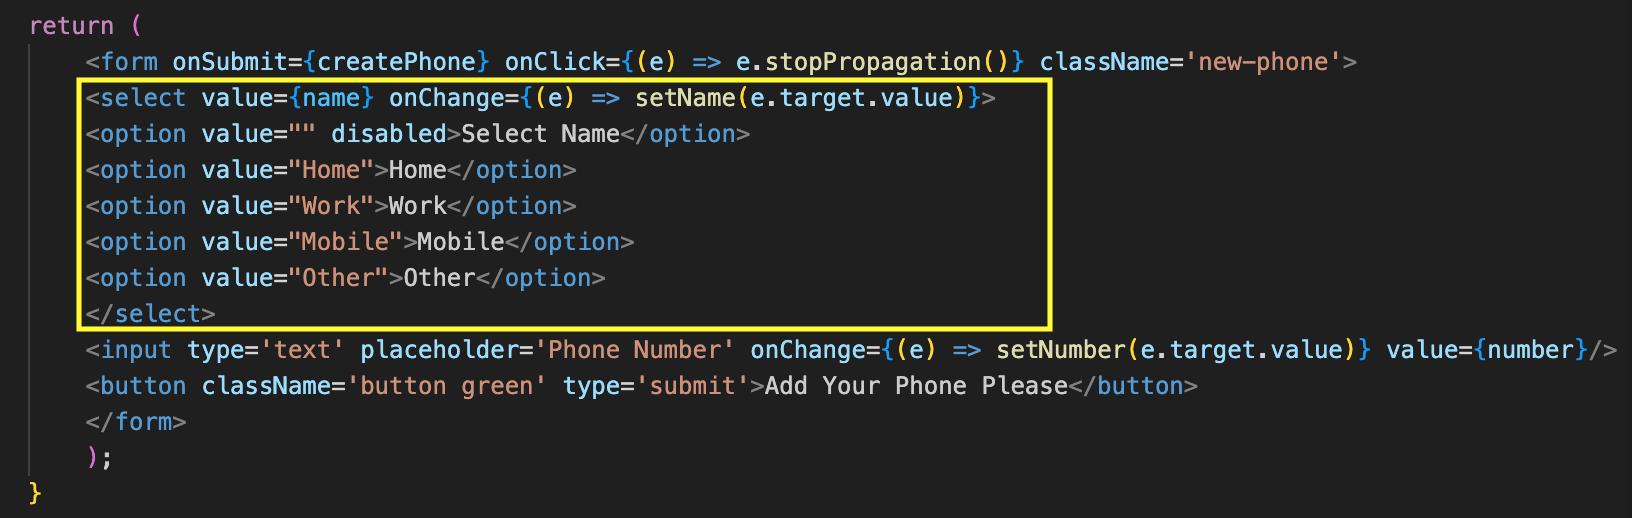
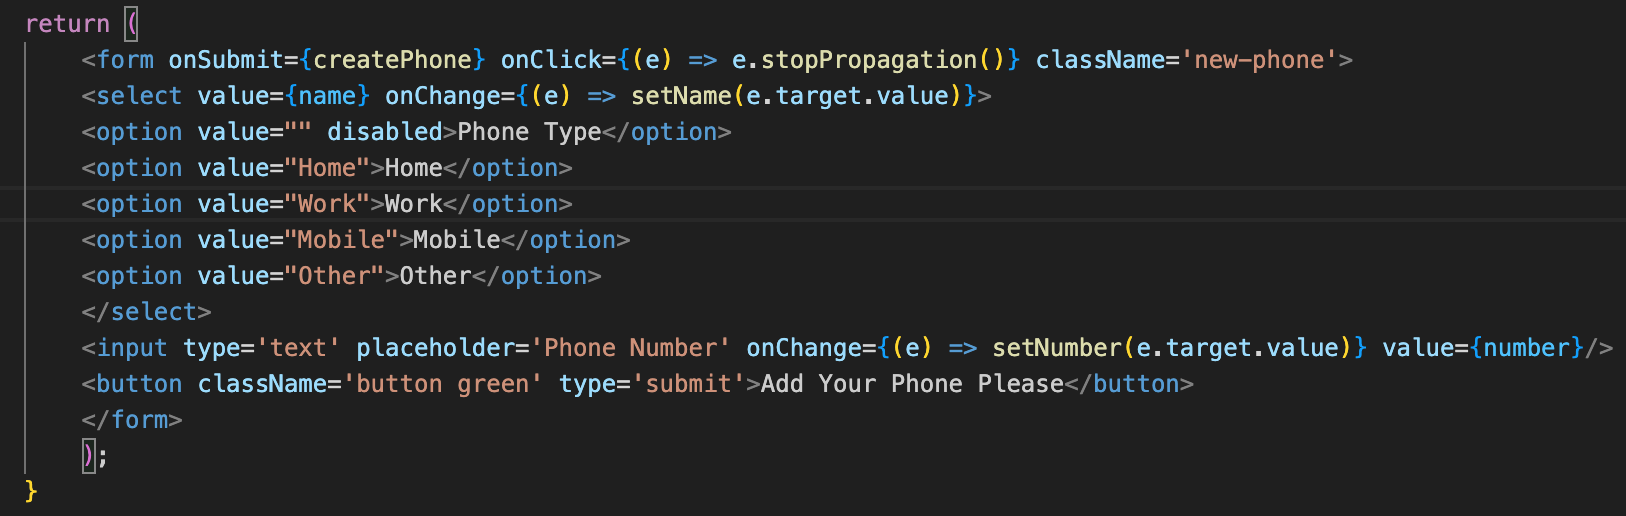
update on 28-08-24

Changed region(s): [[0.0, 0.031, 1.0, 0.8992], [0.0, 0.9302, 0.0308, 0.9612]]

diff --git a/frontend/src/components/NewPhone.js b/frontend/src/components/NewPhone.js
@@ -29,13 +29,19 @@ function NewPhone(props) {
         setName('');
     }
 
-return (
-    <form onSubmit={createPhone} onClick={(e) => e.stopPropagation()} className='new-phone'>
-        <input type='text' placeholder='Name' onChange={(e) => setName(e.target.value)} value={name}/>
-        <input type='text' placeholder='Phone Number' onChange={(e) => setNumber(e.target.value)} value={number}/>
-        <button className='button green' type='submit'>Add Your Phone Please</button>
-    </form>
-);
-}
+    return ( 
+        <form onSubmit={createPhone} onClick={(e) => e.stopPropagation()} className='new-phone'> 
+        <select value={name} onChange={(e) => setName(e.target.value)}> 
+        <option value="" disabled>Phone Type</option> 
+        <option value="Home">Home</option> 
+        <option value="Work">Work</option> 
+        <option value="Mobile">Mobile</option> 
+        <option value="Other">Other</option> 
+        </select> 
+        <input type='text' placeholder='Phone Number' onChange={(e) => setNumber(e.target.value)} value={number}/> 
+        <button className='button green' type='submit'>Add Your Phone Please</button> 
+        </form> 
+        ); 
+    } 
 
 export default NewPhone;

diff --git a/frontend/src/components/NewContact.js b/frontend/src/components/NewContact.js
@@ -25,20 +25,14 @@ function NewContact(props) {
 
         setName('');
     }
+	
+    return (
+        <form className='new-contact' onSubmit={createContact}>
+            <input type='text' placeholder='Name' onChange={(e) => setName(e.target.value)} value={name}/>
+            <button className='button green' type='submit'>Create Contact</button>
+        </form>
+	);
+}
 
-    return ( 
-        <form onSubmit={createPhone} onClick={(e) => e.stopPropagation()} className='new-phone'> 
-        <select value={name} onChange={(e) => setName(e.target.value)}> 
-        <option value="" disabled>Select Name</option> 
-        <option value="Home">Home</option> 
-        <option value="Work">Work</option> 
-        <option value="Mobile">Mobile</option> 
-        <option value="Other">Other</option> 
-        </select> 
-        <input type='text' placeholder='Phone Number' onChange={(e) => setNumber(e.target.value)} value={number}/> 
-        <button className='button green' type='submit'>Add Your Phone Please</button> 
-        </form> 
-        ); 
-    } 
 
     export default NewContact;

diff --git a/README.md b/README.md
@@ -7,13 +7,54 @@ I choose Option A
 TASK 1 – USER INTERFACE CHANGES 
 
 1. Change Button Label in Contact Component
-In "/frontend/src/components/Contact.js", change the text in the yellow rectangle from "Delete" to "Delete Contact"
-
+In "/frontend/src/components/Contact.js", change the text in the yellow rectangle from "Delete" to "Delete Contact".
+<img title="1" alt="1" src= 1.png width="600">
 2. Change Button Label in Phone Component
-In "/frontend/src/components/NewPhone.js", change the text in the yellow rectangle from "Add" to "Add Your Phone Please"
-
+In "/frontend/src/components/NewPhone.js", change the text in the yellow rectangle from "Add" to "Add Your Phone Please".
+<img title="2" alt="2" src= 2.png width="600">
 3. Change Placeholder Text to Drop-Down Menu
-In "/frontend/src/components/NewContact.js", change the syntax in the yellow rectangle from the first picture to the second picture
-
-4. Change Table Label in <tr> Element
+In "/frontend/src/components/NewPhone.js", change the syntax in the yellow rectangle from the first picture to the second picture.
+<img title="3" alt="3" src= 3.png width="600">
 <img title="4" alt="4" src= 4.png width="600">
+4. Change Table Label in <tr> Element
+In "/frontend/src/components/PhoneList.js, change the text in the yellow rectangle from "Name" to "Phone Type.
+<img title="5" alt="5" src= 5.png width="600">
+
+Task 2 - API Command Demonstrations
+
+Show Contact:
+http GET localhost/api/contacts
+<img title="6" alt="6" src= 6.png width="600">
+
+Add Contact:
+http POST localhost/api/contacts "name"="Olivia"
+<img title="7" alt="7" src= 7.png width="600">
+
+Delete Contact:
+http DELETE localhost/api/contacts/7
+<img title="8" alt="8" src= 8.png width="600">
+
+Update Contact:
+http PUT localhost/api/contacts/4 "name"="Grace"
+<img title="9" alt="9" src= 9.png width="600">
+        
+Show Phone:
+All phones of "contactId":6
+http GET localhost/api/contacts/6/phones
+<img title="10" alt="10" src= 10.png width="600">
+
+phone of "contactId":6, "Id":3
+http GET localhost/api/contacts/6/phones/3
+<img title="11" alt="11" src= 11.png width="600">
+
+Add Phone:
+http POST localhost/api/contacts/6/phones name="Home" number="9041250000"
+<img title="12" alt="12" src= 12.png width="600">
+
+Delete Phone:
+http DELETE localhost/api/contacts/6/phones/4
+<img title="13" alt="13" src= 13.png width="600">
+        
+Update Phone:
+http PUT localhost/api/contacts/6/phones/10 name="Work" number="98882088"
+<img title="14" alt="14" src= 14.png width="600">
